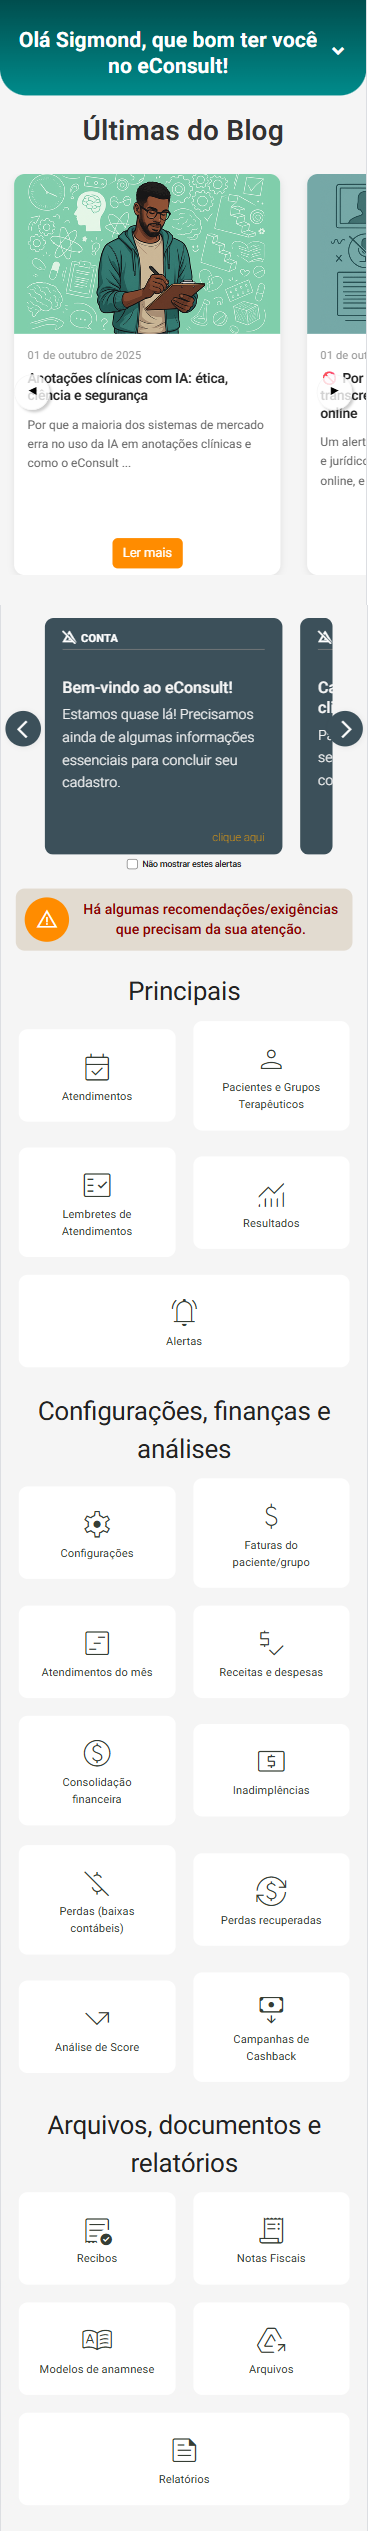
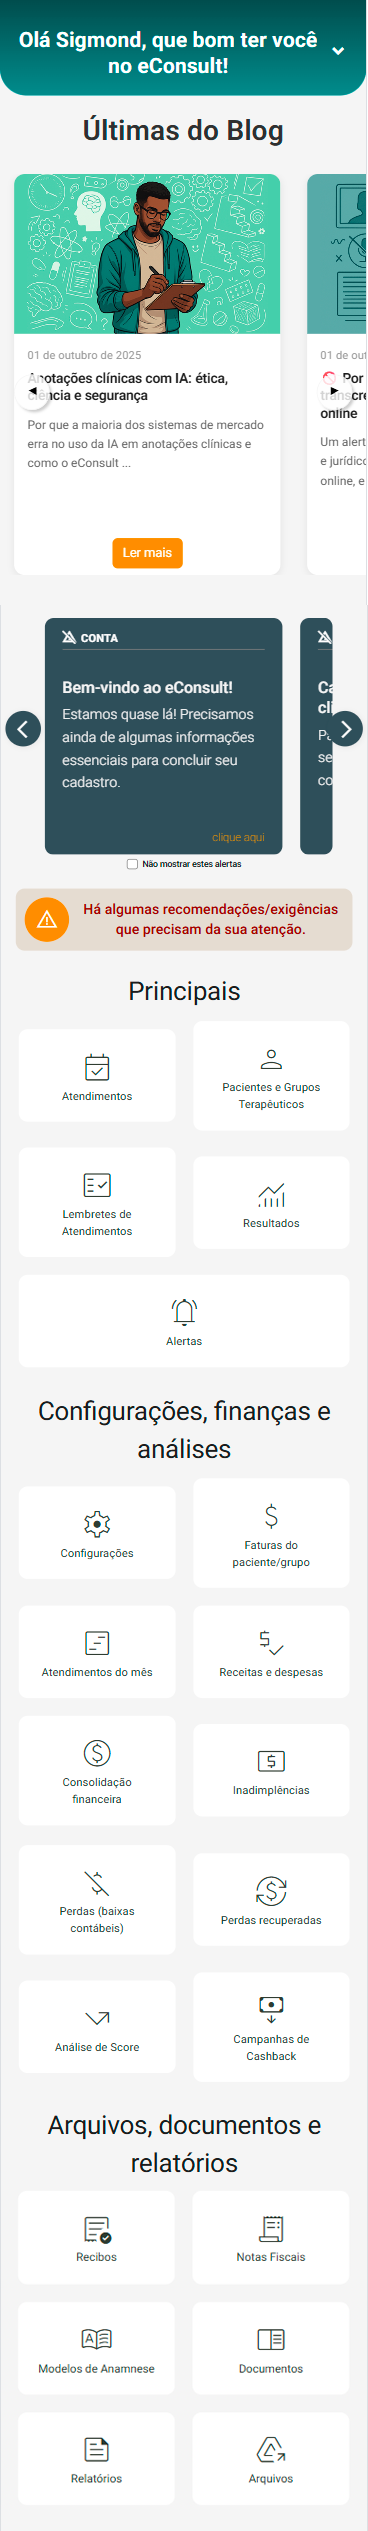
nilson

diff --git a/docs/06_iniciando/02_interface-navegacao/02_painel-inicial.md b/docs/06_iniciando/02_interface-navegacao/02_painel-inicial.md
@@ -44,8 +44,9 @@ Além dos alertas e informações, o Painel Inicial oferece ainda atalhos rápid
 |![Tela: Painel Inicial](../../../static/img/prints/02_painel-inicial-016.png) | Abre o [Painel Recibos](/docs/funcionalidades/recibos/visao) |
 |![Tela: Painel Inicial](../../../static/img/prints/02_painel-inicial-022.png) | Abre o [Painel Notas Fiscais](#) |
 |![Tela: Painel Inicial](../../../static/img/prints/02_painel-inicial-017.png) | Abre o [Painel Modelos de Anamnese](/docs/funcionalidades/modelo-anamnese/visao) |
-|![Tela: Painel Inicial](../../../static/img/prints/02_painel-inicial-019.png) | Abre o [Painel Arquivos](/docs/funcionalidades/arquivos/visao) |
+|![Tela: Painel Inicial](../../../static/img/prints/02_painel-inicial-024.png) | Abre o [Painel Documentos](/docs/funcionalidades/documentos/visao) |
 |![Tela: Painel Inicial](../../../static/img/prints/02_painel-inicial-020.png) | Abre o [Painel Relatórios](/docs/funcionalidades/relatorios/visao) |
+|![Tela: Painel Inicial](../../../static/img/prints/02_painel-inicial-019.png) | Abre o [Painel Arquivos](/docs/funcionalidades/arquivos/visao) |
 
 ---
 
